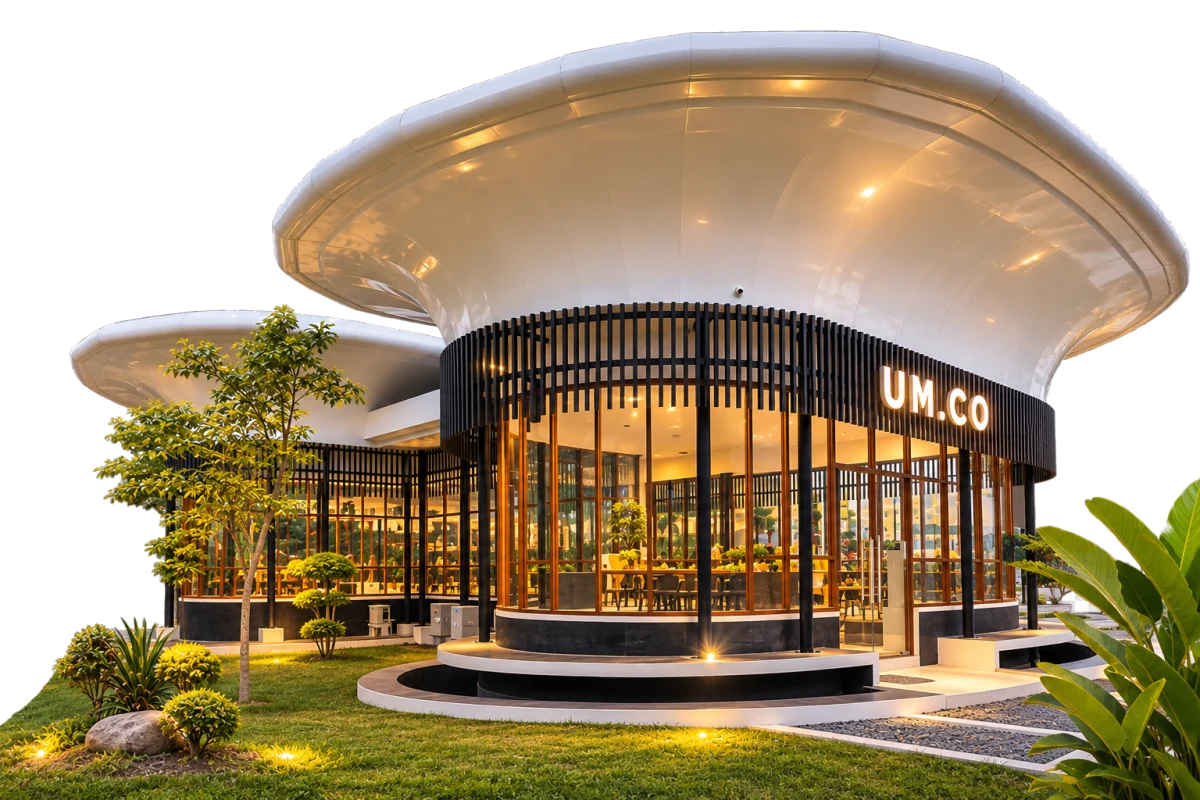
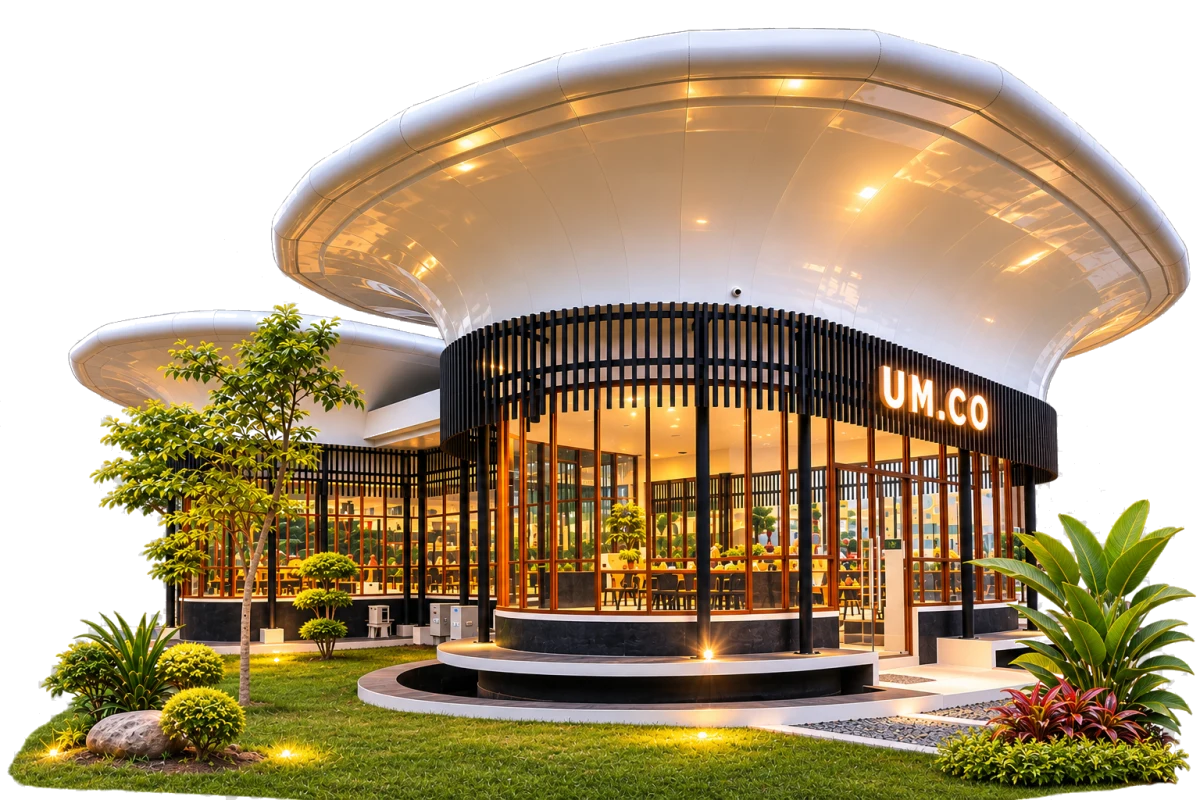
fix: transparent hero/footer navbar, unclipped new hero building cutout, and Vite HMR CSP rule

diff --git a/resources/js/motion/nav.js b/resources/js/motion/nav.js
@@ -119,6 +119,23 @@ export function initNav() {
             return;
         }
 
+        const mode = activeZone.dataset.navTransparent;
+        if (mode === 'footer') {
+            header.style.setProperty('--nav-bg', 'transparent');
+            header.dataset.theme = activeZone.dataset.navTheme || 'dark';
+            return;
+        }
+
+        if (mode === 'hero') {
+            const heroRect = activeZone.getBoundingClientRect();
+            const progress = heroRect.height > 0 ? (sampleY - heroRect.top) / heroRect.height : 0;
+            if (progress < 0.70) {
+                header.style.setProperty('--nav-bg', 'transparent');
+                header.dataset.theme = 'dark';
+                return;
+            }
+        }
+
         const rgb = resolveSectionColor(activeZone, sampleY);
         const lum = (0.299 * rgb[0] + 0.587 * rgb[1] + 0.114 * rgb[2]) / 255;
         const nextTheme = lum < 0.58 ? 'dark' : 'light';

diff --git a/resources/views/sections/home/s01-hero.blade.php b/resources/views/sections/home/s01-hero.blade.php
@@ -14,6 +14,7 @@
 <section
     id="hero"
     data-nav-theme="dark"
+    data-nav-transparent="hero"
     data-nav-stops="0:#0D3526,0.44:#154B36,0.70:#2B6E51,0.86:#9BC4AD,1:#F6F4ED"
     data-module="hero"
     class="relative umco-hero-gradient text-white overflow-hidden pt-20 sm:pt-24 lg:pt-24 pb-8 sm:pb-12 lg:pb-14"
@@ -70,14 +71,14 @@
                     height="800"
                     fetchpriority="high"
                     decoding="async"
-                    class="relative z-10 w-full max-w-[440px] sm:max-w-none lg:w-[106%] xl:w-[112%] lg:-mr-6 h-auto object-contain object-bottom block select-none pointer-events-none [mask-image:linear-gradient(to_bottom,black_80%,transparent_100%)]"
+                    class="relative z-10 w-full max-w-[460px] sm:max-w-full h-auto object-contain object-bottom block select-none pointer-events-none [mask-image:linear-gradient(to_bottom,black_84%,transparent_100%)]"
                 >
 
                 {{-- Awan / kabut halus melapisi bagian bawah foto agar perpotongan menyatu --}}
-                <div aria-hidden="true" class="pointer-events-none select-none absolute -bottom-12 inset-x-[-14%] z-20 h-28 sm:h-36 lg:h-44">
-                    <div class="umco-hero-cloud-puff absolute left-[4%] bottom-4 w-[58%] h-24 sm:h-32 rounded-full"></div>
-                    <div class="umco-hero-cloud-puff absolute right-[-4%] bottom-2 w-[62%] h-28 sm:h-36 rounded-full opacity-95"></div>
-                    <div class="umco-hero-cloud-puff absolute left-[24%] -bottom-2 w-[56%] h-24 sm:h-32 rounded-full opacity-90"></div>
+                <div aria-hidden="true" class="pointer-events-none select-none absolute -bottom-10 inset-x-[-6%] z-20 h-24 sm:h-32 lg:h-40">
+                    <div class="umco-hero-cloud-puff absolute left-[4%] bottom-3 w-[56%] h-20 sm:h-28 rounded-full"></div>
+                    <div class="umco-hero-cloud-puff absolute right-[-2%] bottom-2 w-[58%] h-24 sm:h-32 rounded-full opacity-95"></div>
+                    <div class="umco-hero-cloud-puff absolute left-[24%] -bottom-2 w-[54%] h-20 sm:h-28 rounded-full opacity-90"></div>
                 </div>
             </div>
         </div>

diff --git a/app/Http/Middleware/SecurityHeaders.php b/app/Http/Middleware/SecurityHeaders.php
@@ -19,9 +19,22 @@ class SecurityHeaders
         $response->headers->set('X-Permitted-Cross-Domain-Policies', 'none', false);
         $response->headers->set('Cross-Origin-Opener-Policy', 'same-origin', false);
         $response->headers->set('Cross-Origin-Resource-Policy', 'same-origin', false);
+        $viteOrigin = '';
+        $viteWs = '';
+        if (app()->isLocal() && file_exists(public_path('hot'))) {
+            $hotUrl = trim((string) @file_get_contents(public_path('hot')));
+            $parts = parse_url($hotUrl);
+            if (! empty($parts['scheme']) && ! empty($parts['host'])) {
+                $port = isset($parts['port']) ? ':' . $parts['port'] : '';
+                $viteOrigin = ' ' . $parts['scheme'] . '://' . $parts['host'] . $port;
+                $wsScheme = $parts['scheme'] === 'https' ? 'wss' : 'ws';
+                $viteWs = ' ' . $wsScheme . '://' . $parts['host'] . $port;
+            }
+        }
+
         $response->headers->set(
             'Content-Security-Policy',
-            "default-src 'self'; img-src 'self' data: blob: https:; font-src 'self' data:; style-src 'self' 'unsafe-inline'; script-src 'self' 'unsafe-inline' 'unsafe-eval'; connect-src 'self' https:; frame-ancestors 'self'; base-uri 'self'; form-action 'self'",
+            "default-src 'self'; img-src 'self' data: blob: https:; font-src 'self' data:{$viteOrigin}; style-src 'self' 'unsafe-inline'{$viteOrigin}; script-src 'self' 'unsafe-inline' 'unsafe-eval'{$viteOrigin}; connect-src 'self' https:{$viteOrigin}{$viteWs}; frame-ancestors 'self'; base-uri 'self'; form-action 'self'",
             false
         );
         $response->headers->remove('X-Powered-By');

diff --git a/resources/views/components/layouts/public.blade.php b/resources/views/components/layouts/public.blade.php
@@ -311,7 +311,7 @@
         0 cm
     </div>
 
-    <footer id="public-footer" data-nav-bg="#19523A" class="relative umco-footer-gradient text-[var(--kertas)] pt-14 sm:pt-20 pb-0 overflow-hidden">
+    <footer id="public-footer" data-nav-theme="dark" data-nav-transparent="footer" class="relative umco-footer-gradient text-[var(--kertas)] pt-14 sm:pt-20 pb-0 overflow-hidden">
         <div class="umco-container">
             <div class="grid grid-cols-1 sm:grid-cols-12 gap-8 sm:gap-10 pb-10 sm:pb-12">
                 <div class="sm:col-span-5 space-y-3">
